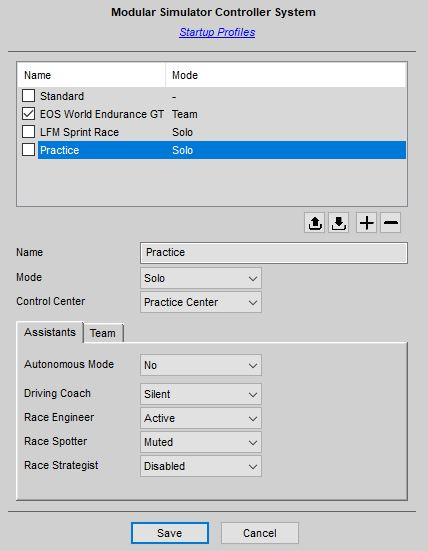
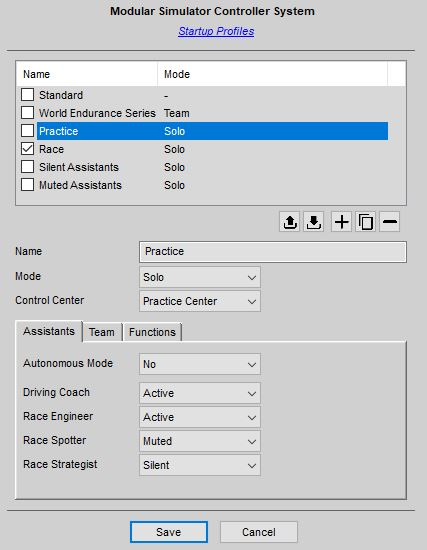
Interview-based Startup Part 13

diff --git a/Docs/Using Simulator Controller.md b/Docs/Using Simulator Controller.md
@@ -94,7 +94,9 @@ Managing the different features, as well as some feature specific configurations
 
 In this editor you create as many different startup profiles as you want. Only one of them will be active as indicated by the checkmark in the list and will be used during the startup process. The profile named "Standard" is special, as it indicates **no** startup profile (all settings will be loaded *normally* from the sources described above).
 
-If you want to create a startup profile, click on the button with the small "+" and give this profile a unique name. You can also export and import profiles to share them with your team mates, for example, using the corresponding buttons. If you hold down the Control key when clicking on the "Download" button, only the currently selected profile will be exported, otherwise all your profiles will be in the export file.
+If you want to create a startup profile, click on the button with the small "+" and give this profile a unique name. You may also use the copy button to create a copy of an already existing profile, but make sure that you change the name afterwards, so that all profile names are unique. And you can also export and import profiles to share them with your team mates, for example, using the corresponding buttons. Also take care here that all your profile names are unique before leaving the dialog.
+
+Good to know: If you hold down the Control key when clicking on the "Download" button, only the currently selected profile will be exported, otherwise all your profiles will be in the export file.
 
 You can choose whether a profile will start a solo or a team session and you can decide whether you want to run the "Practice Center" or the "Race Center" automatically during startup. Please note, that running the "Race Center" is only useful in a team session.
 
